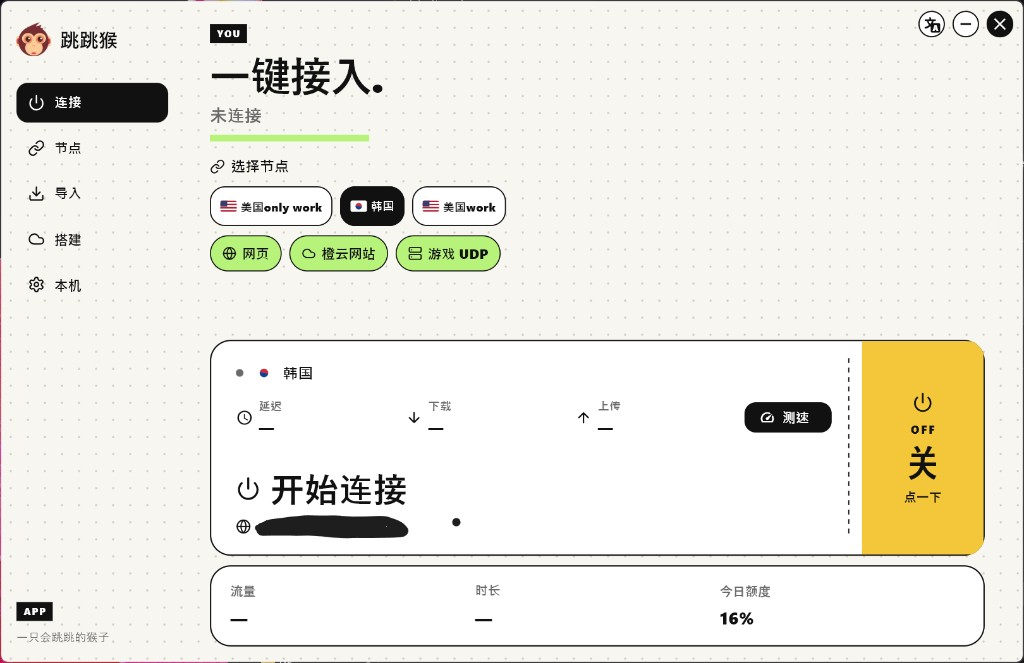
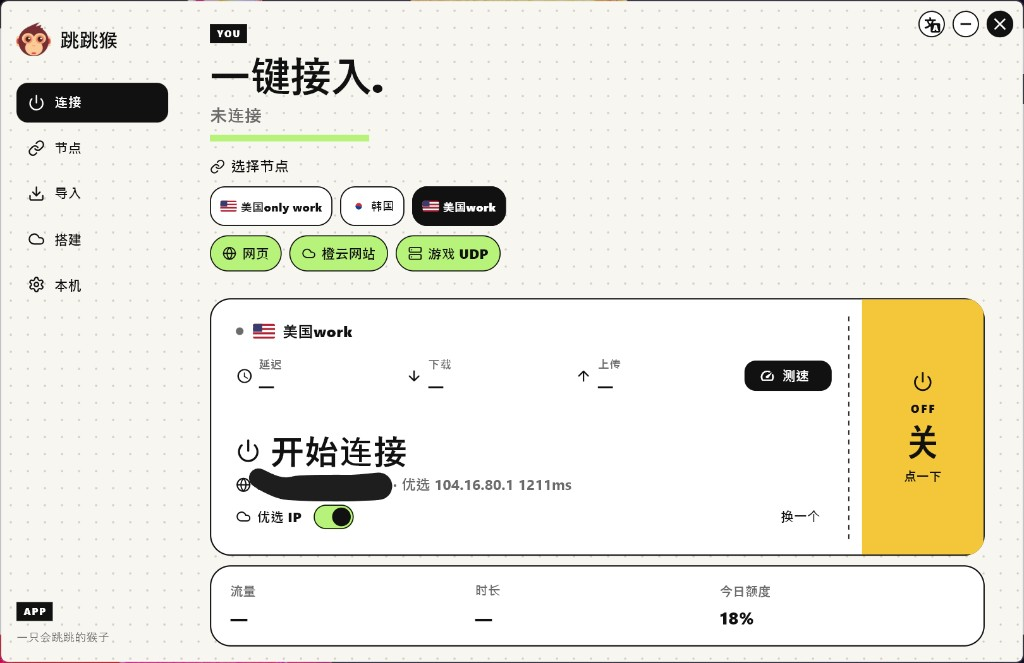
用四张界面图重写介绍，说明连接、节点、搭建和优选 IP。

diff --git a/README.md b/README.md
@@ -1,76 +1,79 @@
 # 🐵 跳跳猴
 
-点一下就接入。网页、视频和游戏走自己的通讯协议，外面套着 HTTP/3 加密。出口可以只用 Cloudflare Worker，也可以再加一台落地。
-
-![跳跳猴首页](docs/home.png)
+点一下就接入。网页、YouTube 和游戏走自己的通讯协议，外面默认套 HTTP/3。没有服务器也能用 Cloudflare；有服务器可以自动搭好。
 
 ⬇ Windows 安装包：<https://github.com/luuuunet/tiaotiaohou/releases/download/windows/tiaotiaohou-Setup.exe>
 
-## 🔐 自研通讯协议
+装好后按这四步：
 
-协议名叫 **RSQ/1**。它规定一条本地连接怎么变成一条加密请求，不借用别人的代理帧。
+1. 左侧 **搭建**，或在 **节点** 里导入一条已经有的配置。
+2. 回到 **连接**，点黄色区域或「开始连接」。
+3. **优选 IP** 保持打开。地址慢了，点 **换一个**。
+4. 浏览器会跟着走。游戏填 `127.0.0.1:1080`。
 
-一条连接对应一条请求。请求里带着协议版本、目标网址和端口，正文是原始字节，回来的正文也是原始字节。中间不再拆成多路小包，接通和结束之外几乎不再占 CPU。
+## 连接
 
-加密套在这条协议外面，分三档，客户端自己换：
+![连接页](docs/home.png)
 
-| | 通道 | 什么时候用 |
+这是平时用的页面。
+
+- 上面选节点。点哪一条，下面就换成哪一条。
+- 绿色标记表示这条能开什么：网页、橙云网站、游戏 UDP。
+- 中间可以测当前连接的延迟、下载和上传。
+- **优选 IP** 打开后，会自动在 Cloudflare 的地址里挑一条更快的，并显示在域名旁边。
+- 晚上这条地址变堵，点 **换一个**，跳过当前地址再挑一条。换完如果正在连接，会按新地址重接。
+- 看 YouTube 时，优选 IP 加上自动换线路，可以开到 4K。网页优先 HTTP/3；视频如果 HTTP/2 更稳，会自己改过去。
+
+## 节点
+
+![节点页](docs/nodes.png)
+
+节点可以有很多条，点一条就能连。
+
+- **导入**：贴一条或一批配置。
+- **添加**：自己填一条。
+- **测试**：只看这条现在能不能用。
+- **分享**：可以设过期时间和能用几次，也可以停用。
+- **订阅**：在导入页填地址。失败会再试，手动加的节点不会被冲掉。
+
+列表里能看到走法：Cloudflare 直连、橙云 + 服务器、Worker + 落地。名字里能认出的国家会显示国旗。
+
+## 搭建
+
+![搭建页](docs/setup.png)
+
+有服务器就点推荐的 **橙云 + 服务器**。填令牌、域名、公网 IP 和 root 密码，点 **去搭建**，剩下的自动完成。
+
+| | 怎么走 | 适合 |
 | --- | --- | --- |
-| 🚀 | **HTTP/3** | 默认。跑在 QUIC 上，加密是 TLS 1.3，端口 UDP 443。握手短，丢几个包也不用整段重来。 |
-| 🔁 | **HTTP/2** | UDP 被挡住，或者这条路变慢。加密仍是 TLS。看视频、拉流时如果它更稳，会单独改走这条。 |
-| 🛟 | **HTTP/1** | 前两条都不通时的保底。 |
+| 🟠 **橙云 + 服务器** | 域名走橙云，回到你的服务器。不创建 Worker。网页优先 HTTP/3，游戏 UDP 也能开。 | 已经有一台服务器。 |
+| 🧩 **Worker + 服务器** | 网页先到 Worker，再从服务器出去。 | 橙云回源不稳的时候。 |
+| ☁ **只用 Cloudflare** | 只有域名，没有自己的服务器。普通网站可以打开。 | 还没有服务器。游戏 UDP 不行。有的网站进不去时，到本机打开「打开打不开的网站」。 |
 
-令牌只用来确认这是你的节点。网页优先留在 HTTP/3，不用手动切换。
+同一台机器可以两套一起用，请用两个不同域名。
 
-## 🛣 三种出口
+## 本机
 
-同一个客户端，节点可以选不同的走法。
+![本机页](docs/device.png)
 
-| | 走法 | 优点 | 缺点 |
-| --- | --- | --- | --- |
-| ☁ | **Cloudflare Worker** | 不用自己的服务器。出口在 Cloudflare。普通网页能开。 | 有的网站认 Cloudflare 的地址，会进不去。游戏 UDP 过不去。每天大约 10 万次请求，开一条新连接算 1 次。 |
-| 🟠 | **Cloudflare + 落地** | 域名挂橙云，流量回源到落地服务器。不计 Worker 次数，优先 HTTP/3。网页、橙云网站、游戏 UDP 都能走。 | 要有一台落地。网站从这台机器的地址出去。 |
-| 🧩 | **Cloudflare Worker + 落地** | 先进入 Worker，再从落地访问网站。入口藏在 Cloudflare 后面，出口是自己的地址。填了落地地址时，游戏走 UDP。 | 多一跳。Worker 的请求次数照样算，落地也要自己准备。 |
+这里是开关，改完保存即可。
 
-首页节点下面的三个标记，对应这三种能开什么：网页、橙云网站、游戏 UDP。
+- **当前节点出口**：Cloudflare 直连、Worker + 落地、橙云 + 服务器、直连 VPS。下面一行字说明现在这条路怎么走。
+- **优先走更快线路**：不通就自动换。看视频也会自己选。
+- **Cloudflare 优选 IP**：自动挑一条更快的地址。可以重新优选，也可以换一个。
+- **打开打不开的网站**：只用 Cloudflare、没有服务器时再开。改完把浏览器关掉再开一次。
+- **连接后设置系统代理**：浏览器跟着走。只听 `127.0.0.1`，浏览器 `8080`，SOCKS `1080`。
+- **国内网站直连**：百度、淘宝不绕出去。
+- **掉线自动换节点**：这条不行就换下一条。
+- **断了先拦住**：掉线不走真实网络。自己断开或退出，仍会关掉代理。
+- **开机自启**：开机静默连上，换网也会恢复。
 
-## 🎯 Cloudflare 优选 IP
+## 协议
 
-本机设置里可以打开。它不改你的节点域名，只是在 Cloudflare 的很多地址里挑一条现在更快的，连的时候钉在这条上。
+通讯协议是自己的 **RSQ/1**。一条本地连接变成一条加密请求，正文是原始字节，中间不再拆包。
 
-晚上同一条地址背后的路可能变堵。本机里点 **换一个**，会跳过当前地址，再挑一条能打开这个节点的。只对经过 Cloudflare 的节点生效，纯直连落地不会用它。
+外面三档，客户端自己换：
 
-## 📊 请求额度
-
-Worker 和 Worker + 落地会计入 Cloudflare 的每日请求次数。
-
-大约每天 10 万次。首页能看到今天用了多少。橙云 + 落地不走 Worker，不占这个次数。内网、本机和 25 端口不会放行。
-
-## ✨ 特别的功能
-
-连上以后自己会选路，不用在上网、看视频、打游戏之间来回点。
-
-- 🚀 **多路一起准备**：HTTP/3 和 HTTP/2 同时连着，谁先通就用谁。网页留在更快的那条。
-- 🎬 **视频单独选**：看视频、拉流时如果 HTTP/2 更稳，只把这一类改过去，别的流量不动。
-- 🎮 **游戏 UDP**：有落地时，游戏单独送到落地的 8444，不跟网页抢同一条路。
-- 🇨🇳 **国内直连**：百度、淘宝不绕出去。内网地址也不进代理。
-- 📶 **首页测速**：正在用的这条连接，能看延迟、下载和上传，测的时候数字会跟着走。
-- 🏳 **节点看国籍**：名字里能认出的国家，列表和首页都会挂上国旗。
-- ✅ **节点只测通不通**：点测试看这条能不能用，不拿延迟来排名。
-
-节点可以有很多条，点一条就换过去。
-
-- 📥 **导入和订阅**：贴一条或一批配置，也可以填订阅地址。订阅失败会自己再试，手动加的节点不会被冲掉。
-- 🎁 **分享能收口**：可以设过期时间和能用几次。停用之后，这台电脑再导入那串配置会拒绝。
-- 🔀 **掉线换下一条**：当前节点不行时，自动去试列表里的下一条。
-- 🚧 **断了先拦住**：掉线时先停住，不把流量漏回真实网络。你自己断开或退出，仍会关掉代理。
-
-本机这一页是开关，改完就按这个用。
-
-- 🎯 **优选 IP**：见上面。还能重新扫描，或换一个地址。
-- 🌐 **打开打不开的网站**：只用 Worker、没有落地时，有的站进不去。打开这个之后再开一次浏览器。
-- 🖥 **系统代理**：连上后浏览器跟着走。代理只听 `127.0.0.1`，浏览器走 `8080`，SOCKS 走 `1080`。关掉软件会清掉。
-- 🔌 **开机和换网**：可以开机静默连上。网络变了会重新接，锁屏不会自己断。
-- 📊 **今日额度**：首页能看到今天的请求用了多少，快用完会提醒。
-- 🩺 **诊断**：检查节点、本机代理和当前出口，结果可以复制。
-- 🔤 **中英文**：右上角切换，不用整页重开。
+- **HTTP/3**：默认。QUIC 上的 TLS 1.3，适合打开网页和看视频。
+- **HTTP/2**：UDP 被挡住，或者视频这条路更稳时用。
+- **HTTP/1**：前两条都不通时的保底。
